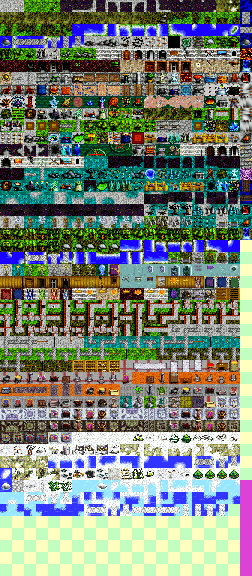
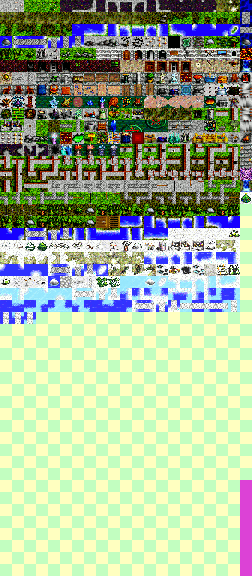
Re-add the Wyrmfire snow graphics and all Mistb0rn graphics not based on BoA or Exile I-III. - Also update the map graphics to reflect the scrubbing

diff --git a/src/scenedit/scen.keydlgs.cpp b/src/scenedit/scen.keydlgs.cpp
@@ -161,8 +161,8 @@ pic_num_t choose_graphic(short cur_choice,ePicType g_type,cDialog* parent) {
 	size_t total_pics = 0;
 	cPictChoice* pic_dlg = nullptr;
 	switch(g_type + PIC_PRESET) {
-		case PIC_TER: total_pics = 250; break;
-		case PIC_TER_ANIM: total_pics = 16; break;
+		case PIC_TER: total_pics = 523; break;
+		case PIC_TER_ANIM: total_pics = 17; break;
 		case PIC_DLOG: total_pics = 44; break;
 		case PIC_TALK: total_pics = 84; break;
 		case PIC_SCEN: total_pics = 30; break;
@@ -175,7 +175,7 @@ pic_num_t choose_graphic(short cur_choice,ePicType g_type,cDialog* parent) {
 		case PIC_MISSILE: total_pics = 16; break;
 		case PIC_STATUS: total_pics = 27; break;
 		case PIC_SCEN_LG: total_pics = 4; break;
-		case PIC_TER_MAP: total_pics = 980; break;
+		case PIC_TER_MAP: total_pics = 977; break;
 		case PIC_FULL:
 			if(!fs::is_directory(tempDir/scenario_temp_dir_name/"graphics")) {
 				giveError("You have no custom graphics, so it's not possible to select this kind of picture!",parent);

diff --git a/src/tools/graphtool.hpp b/src/tools/graphtool.hpp
@@ -21,7 +21,7 @@
 namespace fs = boost::filesystem;
 
 #define LINES_IN_TEXT_WIN	11
-#define NUM_TER_SHEETS		5
+#define NUM_TER_SHEETS		11
 #define NUM_MONST_SHEETS	10
 
 struct m_pic_index_t {

diff --git a/rsrc/graphics.exd/mac/CREDITS.md b/rsrc/graphics.exd/mac/CREDITS.md
@@ -59,8 +59,18 @@ Some sheets are entirely original:
 
 For terrain graphics, most are original BoE graphics, except for the following:
 
-- On ter5.png, graphics 20-23 and 33 are by Mistb0rn. Graphic 25 is by ADoS.
-- termap.png is currently out-of-date.
+- On ter5.png, graphics 20-23 and 33 are by Mistb0rn. Graphics 18, 19, 25 are by ADoS.
+Graphics 24 and 46-49 were monster graphics in original BoE.
+- ter6.png is entirely by Mistb0rn.
+- ter7.png is by Mistb0rn, except the small trees (54 and 46) which are by Celtic Minstrel.
+- On ter8.png, graphics 0, 1, 5, 6, 10, 11, 15, 16 are by Celtic Minstrel; 48 and 49 are by
+Wyrmfire; and the rest are by Mistb0rn.
+- ter9.png is entirely by Wyrmfire.
+- On ter10.png, graphics 0-5, 8-19 are by Wyrmfire, and the rest are by Mistb0rn (but based
+on Wyrmfire's graphics).
+- On ter11.png, graphics 0-22 are by Mistb0rn.
+- On teranim.png, graphic 15 is by Mistb0rn and graphic 16 is by Wyrmfire.
+- termap.png currently just contains directly shrunken versions of the other sheets.
 
 For monster graphics, most are original BoE graphics, except for the following:
 
